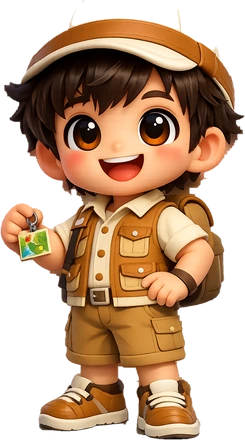
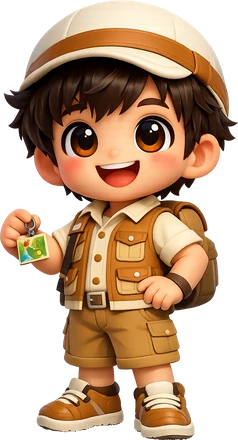
v14.1: 기본 캐릭터 4종 재추출 — 잘린 모자 윗부분 복원
원인: v13 추출이 회색 스튜디오 배경을 grabCut으로 지우면서 크림색 모자 돔을
배경으로 오인해 깎아냄(v12.2의 '흰 신발이 배경으로 오인된' 것과 같은 실패 유형).
남은 것은 모자 테두리 잔해 두 가닥뿐이었다.

진단: 원본 PNG 4장에 이미 깨끗한 알파 컷아웃이 들어 있었다(모자 돔 포함).
배경 제거 자체가 불필요했고, 그 과정이 멀쩡한 알파를 덮어썼다.

수정: 원본 알파를 그대로 쓰고 두 가지만 정리한다.
- 캔버스 전체에 깔린 alpha 1~4 헤일로(육안 불가시) → 투명 확정.
  이걸 남기면 잘라내기 상자가 캔버스 전체로 벌어져 캐릭터가 작아진다.
- 발밑 드롭섀도우(넓고 옅은 반투명 덩어리, 평균 alpha 58~68) → 제거.
  모자·머리카락 외곽 안티앨리어싱은 평균 alpha 130 안팎이라 걸리지 않는다.

결과: 4종 모두 모자 돔·리본 온전, 눈높이 통일(세로 440px), 유색 배경 합성
검수에서 헤일로·그림자 잔여 0. sw quest-v14-1로 캐시 갱신.

diff --git a/sw.js b/sw.js
@@ -1,6 +1,6 @@
 /* 공원 원정대 서비스 워커 — 오프라인 지원 (앱 셸 사전 캐시 + 갱신형 캐시)
    배포 시 자산이 바뀌면 VERSION을 올려야 이전 캐시가 정리된다. */
-const VERSION = 'quest-v14';
+const VERSION = 'quest-v14-1';
 /* 탐험 유형 32캐릭터 일러스트 (4이동×4성향×남녀) + 기본 캐릭터 4종 — 지도 아바타·도감 공용 */
 const CHARACTER_IMGS = ['explorer', 'curious', 'focus', 'speed'].flatMap((mv) =>
   ['detective', 'fairy', 'boss', 'guide'].flatMap((ms) =>
